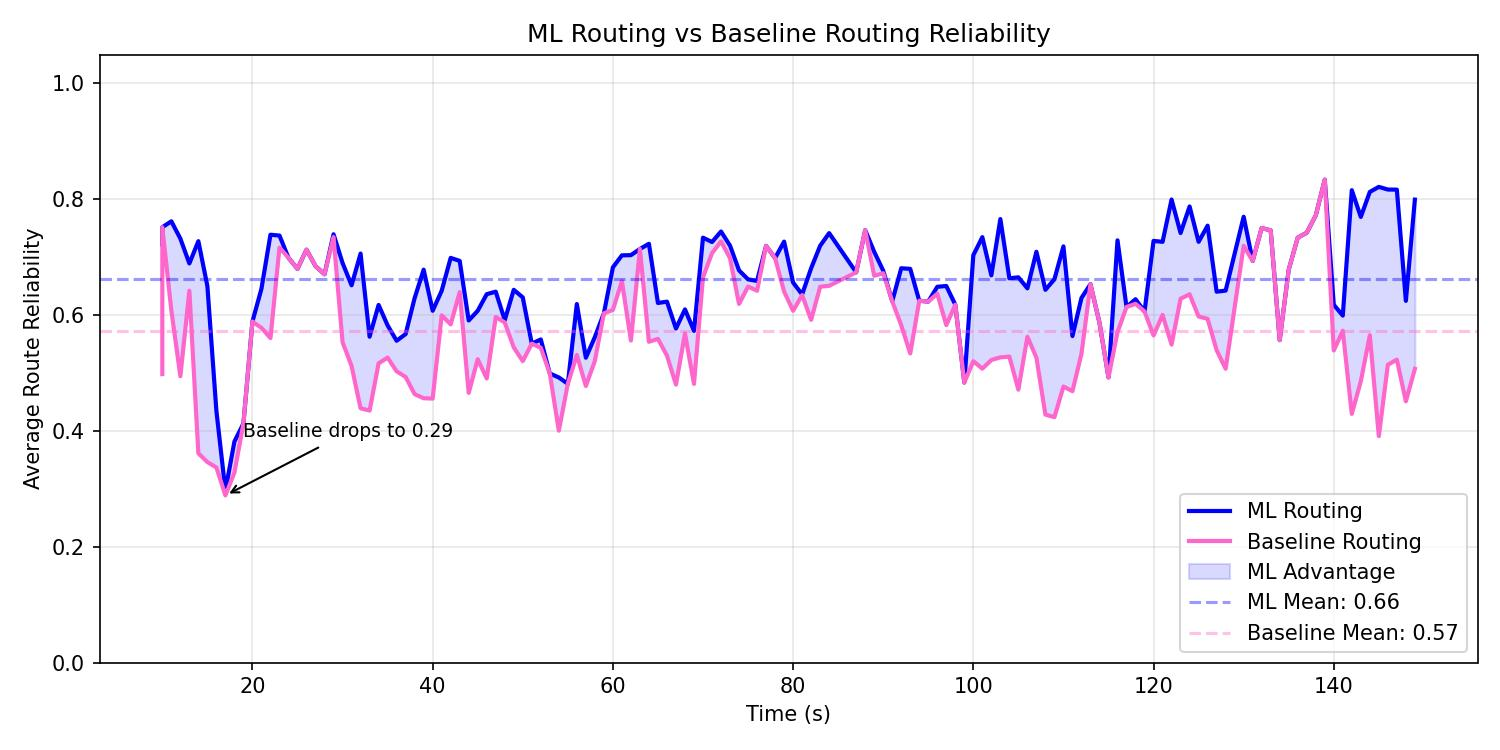
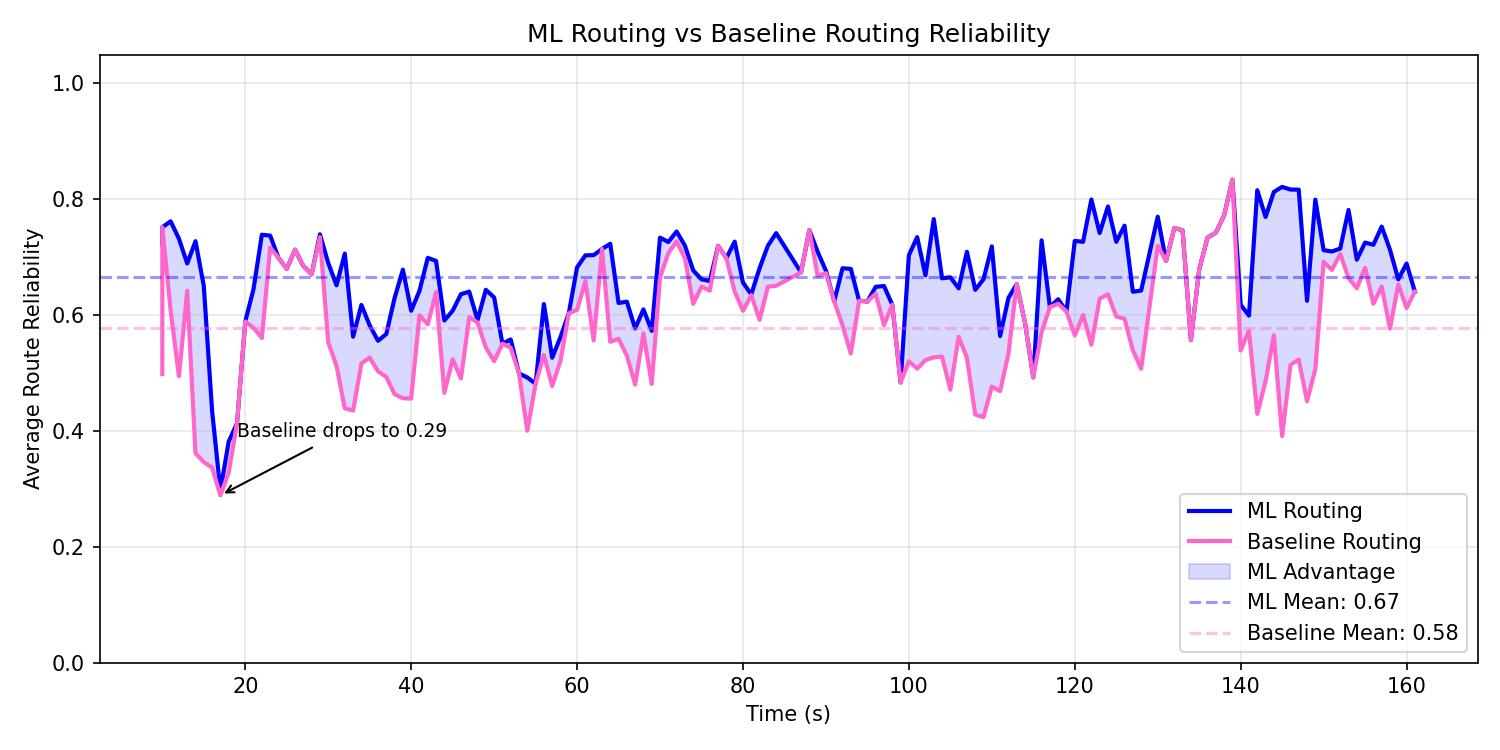
Improved logic

diff --git a/baseline_paper/threshold_model.py b/baseline_paper/threshold_model.py
@@ -3,7 +3,7 @@ import numpy as np
 
 class AdaptiveThresholdModel:
     """
-    Closed-form adaptive threshold used as a *teacher* target when training the
+    Closed-form adaptive threshold used as a teacher target when training the
     SFRNNR threshold head (see experiments/train_sfrnnr_paper.py). Final routing
     uses thresholds produced by the trained network in paper_lfp_dataset.csv.
     """
